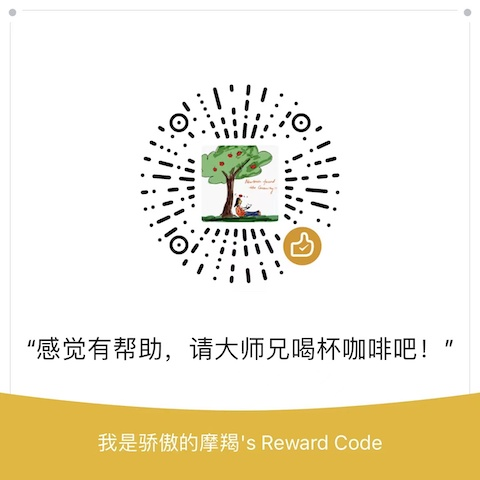
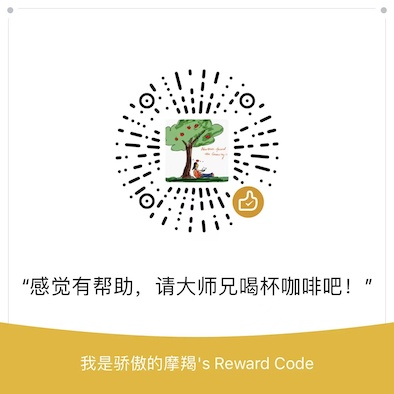
fig

diff --git a/docs/Install/IN03.md b/docs/Install/IN03.md
@@ -130,8 +130,5 @@ echo 'source /home/bigbro/intel/oneapi/setvars.sh' >> ~/.bashrc
 + 安装 `Base toolkit` 的时候，大家可以选择 `Accept & Customize` 取消安装 `Python` 解释器，从而节省时间。
 + 其他没有什么需要注意的。
 
-[<img src="IN03/qrcode.jpeg" width="250"/>](IN03/qrcode.jpeg)
+![](IN03/qrcode.jpeg)
 
-![](IN03/qrcode.jpeg){ width=5cm }
-
-<img src="IN03/qrcode.jpeg" style="zoom:40%;" />
